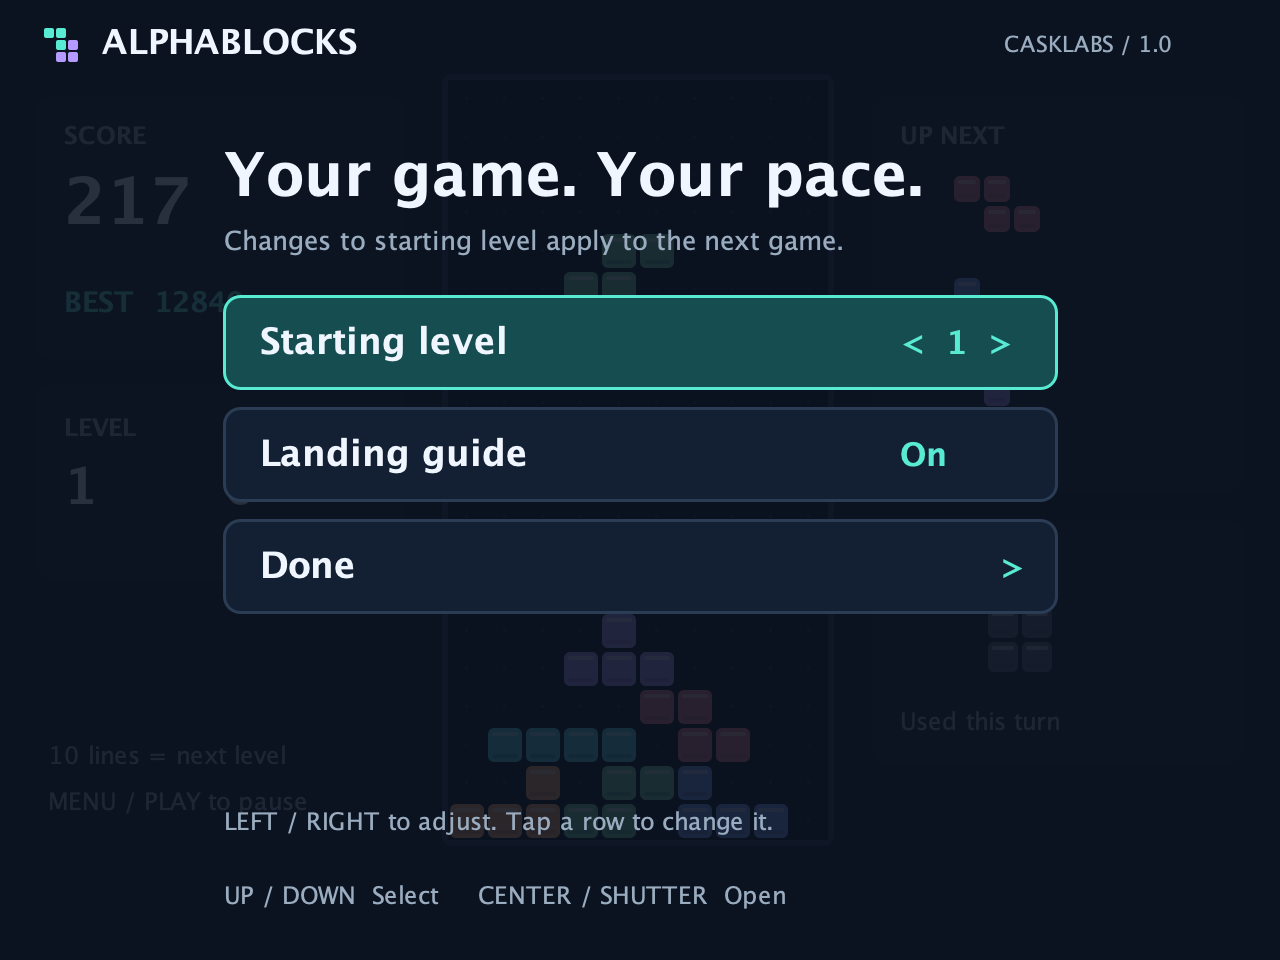
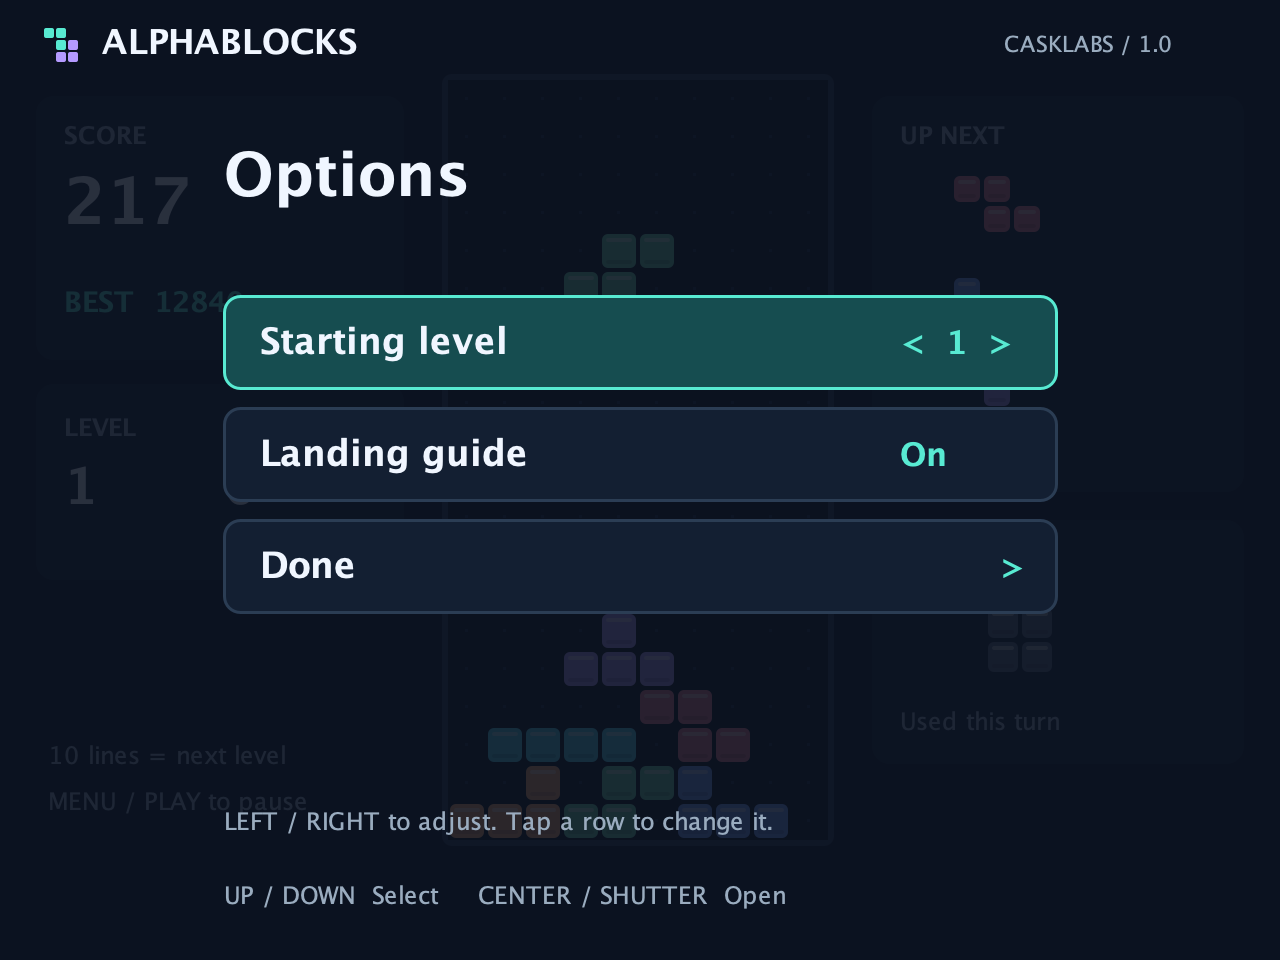
Simplify menu headings and refresh previews

Changed region(s): [[0.1562, 0.1562, 0.6562, 0.2812], [0.4688, 0.1562, 0.7188, 0.2188]]

diff --git a/app/src/main/java/com/casklabs/alphablocks/GameScene.java b/app/src/main/java/com/casklabs/alphablocks/GameScene.java
@@ -119,15 +119,12 @@ public final class GameScene {
         boolean home = screen == GameSession.HOME;
         boolean options = screen == GameSession.OPTIONS;
         boolean over = screen == GameSession.OVER;
-        String title = home ? "One more block." : options ? "Your game. Your pace."
-                : over ? "Room for another?" : "Take a breather.";
-        String subtitle = home ? "A falling-block puzzle for your camera."
-                : options ? "Changes to starting level apply to the next game."
-                : over ? "SCORE " + session.game.getScore() + "    BEST " + session.getBest()
-                : "Your game is paused.";
+        String title = home ? "Main Menu" : options ? "Options"
+                : over ? "Game Over" : "Paused";
         float top = 72;
         d.text(title,112,top+26,30,INK,true);
-        d.text(subtitle,112,top+53,13,MUTED,false);
+        if (over) d.text("SCORE " + session.game.getScore() + "    BEST " + session.getBest(),
+                112,top+53,13,MUTED,false);
         int count = session.rowCount();
         for (int i = 0; i < count; i++) {
             float y = top+76+i*56;
@@ -142,8 +139,7 @@ public final class GameScene {
         if (options) d.text("LEFT / RIGHT to adjust. Tap a row to change it.",112,415,12,MUTED,false);
     }
     private void help(Draw d) {
-        d.text("Small camera. Big game.",86,85,29,INK,true);
-        d.text("Complete rows. Keep the stack below the top.",86,114,14,MUTED,false);
+        d.text("Controls",86,85,29,INK,true);
         String[] keys = {"LEFT / RIGHT", "UP / CENTER", "DOWN", "SHUTTER", "FN", "PLAY / MENU"};
         String[] values = {"Move (hold to repeat)", "Rotate clockwise", "Soft drop (hold)",
                 "Drop and lock", "Hold / swap piece", "Pause / resume"};
